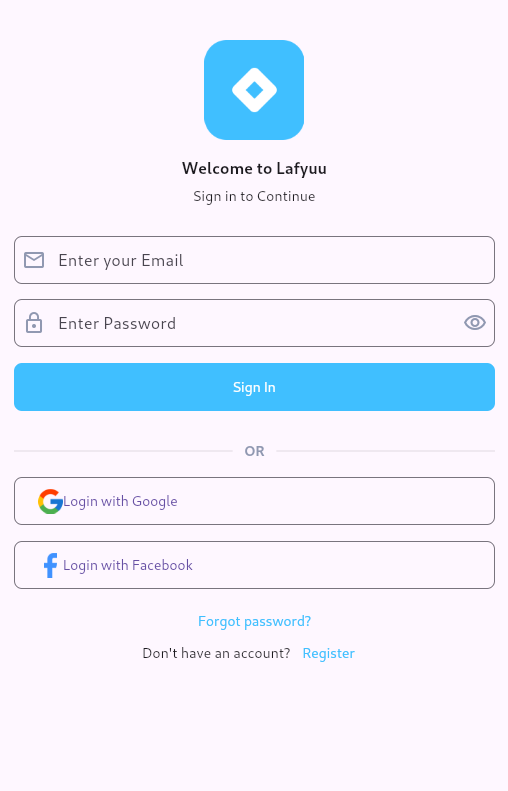
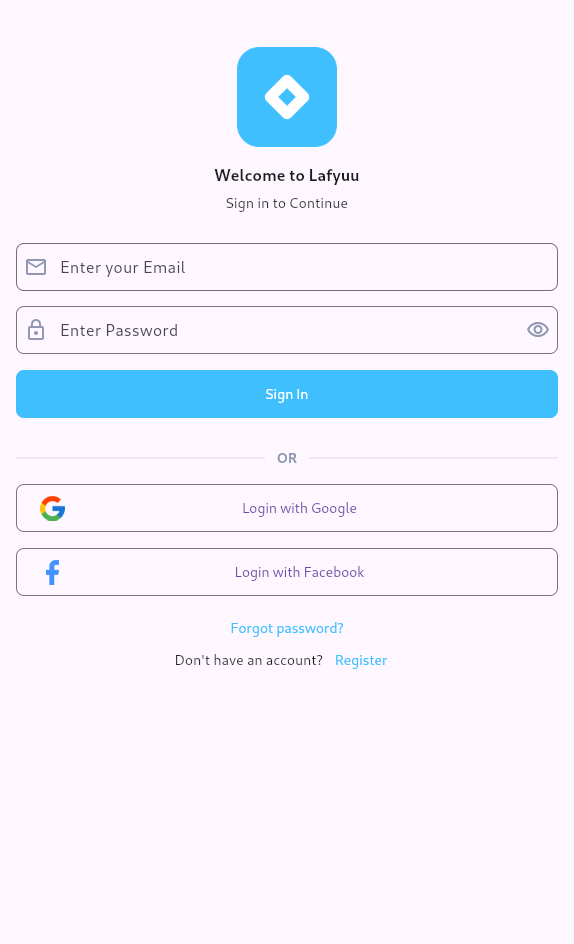
fixing login button

diff --git a/lib/main.dart b/lib/main.dart
@@ -99,14 +99,26 @@ class _MyAppState extends State<MyApp> {
                   ),
                   SizedBox(height: 16),
 
-                  TextButton(child: Text("Forgot password?", style: TextStyle(color: Color(0xFF40BFFF),)), onPressed:() {} ,),
+                  TextButton(
+                    child: Text(
+                      "Forgot password?",
+                      style: TextStyle(color: Color(0xFF40BFFF)),
+                    ),
+                    onPressed: () {},
+                  ),
                   Row(
                     mainAxisAlignment: MainAxisAlignment.center,
                     children: [
                       Text("Don't have an account?"),
-                      TextButton(child: Text("Register", style: TextStyle(color: Color(0xFF40BFFF), ), ), onPressed: () {},)
+                      TextButton(
+                        child: Text(
+                          "Register",
+                          style: TextStyle(color: Color(0xFF40BFFF)),
+                        ),
+                        onPressed: () {},
+                      ),
                     ],
-                  )
+                  ),
                 ],
               ),
             ),
@@ -160,9 +172,11 @@ class DefaultButton extends StatelessWidget {
           shape: RoundedRectangleBorder(borderRadius: BorderRadius.circular(8)),
         ),
         child: Row(
+          mainAxisAlignment: MainAxisAlignment.spaceBetween,
           children: [
             Image.asset(assets, width: 25, height: 25),
             Text(text),
+            SizedBox()
           ],
         ),
       ),
